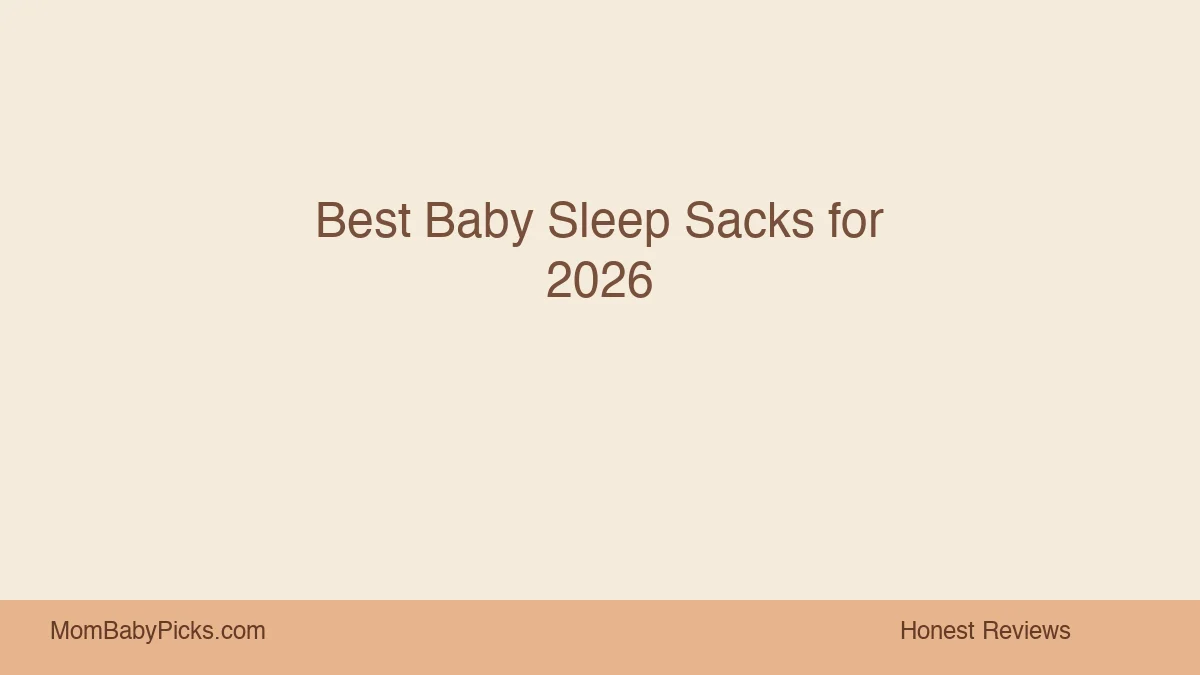
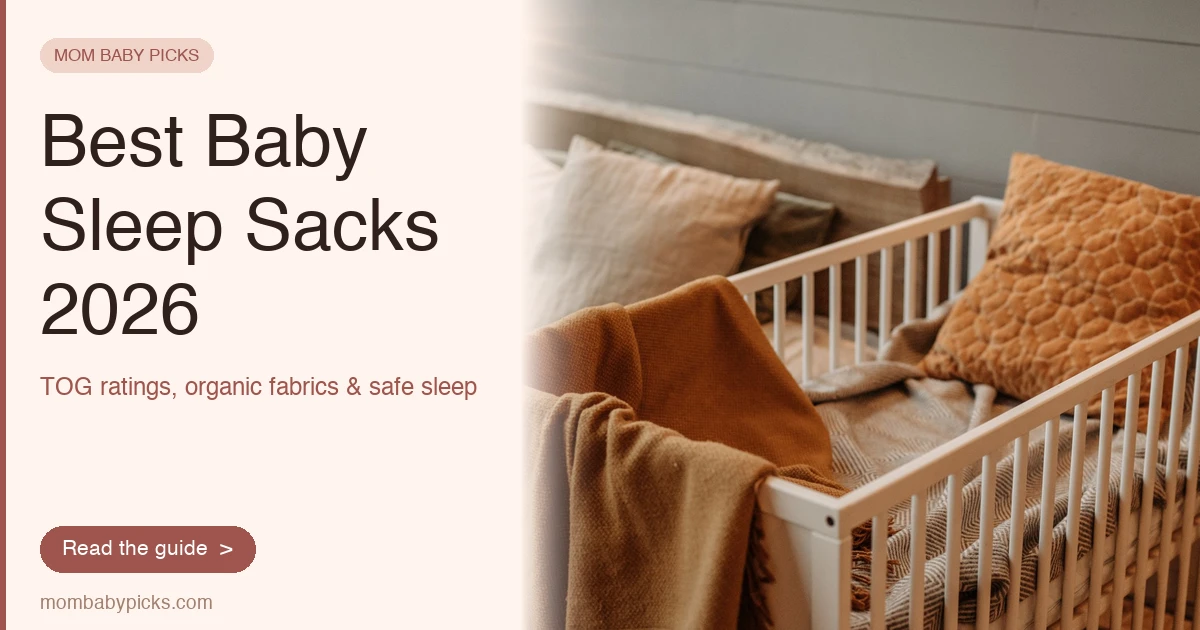
feat: regenerate all 18 cover images — two-tone split layout with Pexels photos

diff --git a/scripts/generate-covers.py b/scripts/generate-covers.py
@@ -1,0 +1,308 @@
+#!/usr/bin/env python3
+"""
+Generate 1200x630 cover images — two-tone split layout.
+Left 43%: warm cream panel with headline + branding.
+Right 57%: Pexels lifestyle photo.
+
+Usage:
+  python3 scripts/generate-covers.py                    # Picsum fallback
+  PEXELS_API_KEY=xxx python3 scripts/generate-covers.py # real photos
+  PEXELS_API_KEY=xxx python3 scripts/generate-covers.py best-baby-bouncers-for-2026
+"""
+
+import os
+import io
+import sys
+import urllib.request
+import urllib.parse
+import json
+from PIL import Image, ImageDraw, ImageFont
+
+COVERS_DIR = "/Users/thangnguyen/GIT/PP/mombabypicks/static/images/posts"
+W, H = 1200, 630
+LEFT_W = 520          # text panel width
+RIGHT_W = W - LEFT_W  # 680
+
+FONT_PATH = "/System/Library/Fonts/Helvetica.ttc"
+PEXELS_KEY = os.environ.get("PEXELS_API_KEY", "")
+
+CREAM       = (255, 244, 238, 255)  # #fff4ee
+DARK        = (47,  32,  28,  255)  # #2f201c
+CORAL       = (158, 85,  77,  255)  # #9e554d
+CORAL_LIGHT = (240, 212, 202, 255)  # #f0d4ca
+MUTED       = (160, 128, 112, 255)  # #a08070
+WHITE       = (255, 255, 255, 255)
+
+
+def load_font(size):
+    try:
+        return ImageFont.truetype(FONT_PATH, size)
+    except Exception:
+        return ImageFont.load_default()
+
+
+def fetch_pexels(query):
+    url = (f"https://api.pexels.com/v1/search"
+           f"?query={urllib.parse.quote(query)}&per_page=5&orientation=landscape")
+    headers = {"Authorization": PEXELS_KEY, "User-Agent": "Mozilla/5.0"}
+    try:
+        with urllib.request.urlopen(
+            urllib.request.Request(url, headers=headers), timeout=10
+        ) as r:
+            data = json.loads(r.read())
+        photos = data.get("photos", [])
+        if photos:
+            img_url = photos[0]["src"].get("large2x") or photos[0]["src"]["large"]
+            with urllib.request.urlopen(
+                urllib.request.Request(img_url, headers=headers), timeout=15
+            ) as r:
+                return Image.open(io.BytesIO(r.read())).convert("RGBA")
+    except Exception as e:
+        print(f"    Pexels error: {e}")
+    return None
+
+
+def fetch_picsum(seed):
+    url = f"https://picsum.photos/seed/{seed}/680/630"
+    try:
+        with urllib.request.urlopen(
+            urllib.request.Request(url, headers={"User-Agent": "Mozilla/5.0"}),
+            timeout=10,
+        ) as r:
+            return Image.open(io.BytesIO(r.read())).convert("RGBA")
+    except Exception as e:
+        print(f"    Picsum error: {e}")
+    return None
+
+
+def get_photo(query, seed):
+    if PEXELS_KEY:
+        photo = fetch_pexels(query)
+        if photo:
+            return photo
+        print(f"    Pexels miss for '{query}', falling back to Picsum")
+    return fetch_picsum(seed)
+
+
+def wrap_text(draw, text, font, max_w):
+    words = text.split()
+    lines, cur = [], []
+    for word in words:
+        test = " ".join(cur + [word])
+        if draw.textbbox((0, 0), test, font=font)[2] <= max_w:
+            cur.append(word)
+        else:
+            if cur:
+                lines.append(" ".join(cur))
+            cur = [word]
+    if cur:
+        lines.append(" ".join(cur))
+    return lines
+
+
+def rounded_rect(draw, xy, r, fill):
+    x0, y0, x1, y1 = xy
+    draw.rectangle([x0 + r, y0, x1 - r, y1], fill=fill)
+    draw.rectangle([x0, y0 + r, x1, y1 - r], fill=fill)
+    for cx, cy in [(x0, y0), (x1 - 2*r, y0), (x0, y1 - 2*r), (x1 - 2*r, y1 - 2*r)]:
+        draw.ellipse([cx, cy, cx + 2*r, cy + 2*r], fill=fill)
+
+
+def make_cover(slug, headline, subtitle, query, seed):
+    out_path = os.path.join(COVERS_DIR, f"{slug}.webp")
+    print(f"  {slug}...")
+
+    img = Image.new("RGBA", (W, H), CREAM)
+    draw = ImageDraw.Draw(img)
+
+    # --- Right panel: photo ---
+    photo = get_photo(query, seed)
+    if photo:
+        pw, ph = photo.size
+        scale = max(RIGHT_W / pw, H / ph)
+        nw, nh = int(pw * scale), int(ph * scale)
+        photo = photo.resize((nw, nh), Image.LANCZOS)
+        lx = (nw - RIGHT_W) // 2
+        ty_crop = (nh - H) // 2
+        photo = photo.crop((lx, ty_crop, lx + RIGHT_W, ty_crop + H))
+        img.paste(photo, (LEFT_W, 0))
+
+    # Soft cream-to-transparent blend at the join edge
+    blend_w = 80
+    overlay = Image.new("RGBA", (blend_w, H), (0, 0, 0, 0))
+    for i in range(blend_w):
+        alpha = int(255 * (1 - i / blend_w) ** 1.6)
+        ImageDraw.Draw(overlay).line([(i, 0), (i, H)], fill=(255, 244, 238, alpha))
+    img.paste(overlay, (LEFT_W, 0), overlay)
+
+    draw = ImageDraw.Draw(img)
+
+    # Coral accent bar on far left
+    draw.rectangle([0, 0, 5, H], fill=CORAL)
+
+    # --- Brand badge ---
+    f_badge = load_font(17)
+    badge_text = "MOM BABY PICKS"
+    bb = draw.textbbox((0, 0), badge_text, font=f_badge)
+    bw = bb[2] - bb[0] + 28
+    bh = 34
+    bx, by = 40, 38
+    rounded_rect(draw, (bx, by, bx + bw, by + bh), 17, CORAL_LIGHT)
+    draw.text((bx + 14, by + 9), badge_text, font=f_badge, fill=CORAL)
+
+    # --- Headline: auto-size to fit in 3 lines ---
+    PAD = 40
+    MAX_TW = LEFT_W - PAD * 2  # 440px
+
+    f_title = load_font(72)
+    lines = wrap_text(draw, headline, f_title, MAX_TW)
+    if len(lines) > 3:
+        f_title = load_font(58)
+        lines = wrap_text(draw, headline, f_title, MAX_TW)
+    line_h = int(f_title.size * 1.18)
+
+    # Vertical center with subtitle and button in mind
+    text_block_h = len(lines) * line_h
+    ty = max(110, (H - text_block_h - 180) // 2)
+
+    for line in lines[:4]:
+        draw.text((PAD, ty), line, font=f_title, fill=DARK)
+        ty += line_h
+
+    # --- Subtitle ---
+    f_sub = load_font(24)
+    ty += 14
+    for line in wrap_text(draw, subtitle, f_sub, MAX_TW)[:2]:
+        draw.text((PAD, ty), line, font=f_sub, fill=CORAL)
+        ty += 34
+
+    # --- CTA button ---
+    f_btn = load_font(21)
+    btn_text = "Read the guide  >"
+    bb = draw.textbbox((0, 0), btn_text, font=f_btn)
+    btn_w = bb[2] - bb[0] + 44
+    btn_h = 46
+    btn_y = H - 104
+    rounded_rect(draw, (PAD, btn_y, PAD + btn_w, btn_y + btn_h), 23, CORAL)
+    draw.text((PAD + 22, btn_y + 12), btn_text, font=f_btn, fill=WHITE)
+
+    # --- URL ---
+    f_url = load_font(19)
+    draw.text((PAD, H - 36), "mombabypicks.com", font=f_url, fill=MUTED)
+
+    final = img.convert("RGB")
+    final.save(out_path, "WEBP", quality=90, optimize=True)
+    print(f"    Saved: {os.path.basename(out_path)}")
+
+
+ARTICLES = [
+    dict(slug="best-bottle-warmers",
+         headline="Best Bottle Warmers",
+         subtitle="Fast, safe picks for newborns · 2026",
+         query="baby bottle warmer kitchen counter",
+         seed="cover-bottle-warmer"),
+    dict(slug="best-baby-bouncers-for-2026",
+         headline="Best Baby Bouncers for 2026",
+         subtitle="5 picks from budget to app-controlled",
+         query="baby bouncer seat infant cozy",
+         seed="cover-bouncer"),
+    dict(slug="best-breast-pumps",
+         headline="Best Breast Pumps of 2026",
+         subtitle="Wearable & electric compared honestly",
+         query="breast pump nursing mom",
+         seed="cover-breast-pump"),
+    dict(slug="best-baby-sleep-sacks-for-2026",
+         headline="Best Baby Sleep Sacks 2026",
+         subtitle="TOG ratings, organic fabrics & safe sleep",
+         query="baby sleeping cozy nursery warm",
+         seed="cover-sleep-sack"),
+    dict(slug="best-baby-bottles-for-newborns-2026",
+         headline="Best Baby Bottles for Newborns",
+         subtitle="Anti-colic venting & breast-like nipples",
+         query="baby bottle feeding newborn",
+         seed="cover-bottles"),
+    dict(slug="best-baby-carriers-for-2026",
+         headline="Best Baby Carriers 2026",
+         subtitle="From wraps to structured carriers",
+         query="babywearing baby carrier parent",
+         seed="cover-carriers"),
+    dict(slug="best-diapers-for-newborns-2026",
+         headline="Best Newborn Diapers 2026",
+         subtitle="Softness, fit & sensitive skin compared",
+         query="newborn baby diaper soft",
+         seed="cover-diapers"),
+    dict(slug="best-high-chairs-for-babies-2026",
+         headline="Best High Chairs 2026",
+         subtitle="From budget IKEA to grows-to-adult",
+         query="baby high chair mealtime kitchen",
+         seed="cover-high-chair"),
+    dict(slug="best-baby-monitors-long-battery-life",
+         headline="Best Baby Monitors Long Battery",
+         subtitle="No-WiFi picks that last through the night",
+         query="baby monitor nursery night",
+         seed="cover-monitor"),
+    dict(slug="best-hands-free-wearable-breast-pumps",
+         headline="Best Wearable Breast Pumps",
+         subtitle="Hands-free pumping while you move",
+         query="wearable breast pump nursing mom",
+         seed="cover-wearable-pump"),
+    dict(slug="breastfeeding-essentials",
+         headline="Breastfeeding Essentials 2026",
+         subtitle="What you actually need from day one",
+         query="breastfeeding mom newborn nursing",
+         seed="cover-bf-essentials"),
+    dict(slug="newborn-essentials-checklist",
+         headline="Newborn Essentials Checklist",
+         subtitle="Skip the noise — here's what you need",
+         query="newborn baby essentials nursery",
+         seed="cover-newborn"),
+    dict(slug="newborn-feeding-essentials",
+         headline="Newborn Feeding Essentials",
+         subtitle="Bottles, burp cloths & nursing gear",
+         query="newborn feeding baby bottles",
+         seed="cover-feeding"),
+    dict(slug="bottle-refusal-breastfed-babies",
+         headline="Bottle Refusal: What Works",
+         subtitle="Why breastfed babies refuse & how to fix it",
+         query="baby bottle feeding breastfed mother",
+         seed="cover-bottle-refusal"),
+    dict(slug="eco-friendly-baby-gear-guide",
+         headline="Eco-Friendly Baby Gear",
+         subtitle="Sustainable picks worth buying in 2026",
+         query="eco organic baby products natural",
+         seed="cover-eco"),
+    dict(slug="pace-bottle-feeding-guide",
+         headline="Pace Bottle Feeding Guide",
+         subtitle="The technique every breastfed baby needs",
+         query="baby bottle paced feeding technique",
+         seed="cover-pace"),
+    dict(slug="silicone-baby-feeding-products",
+         headline="Best Silicone Baby Products",
+         subtitle="Safe, non-toxic gear for feeding time",
+         query="silicone baby feeding bowl spoon",
+         seed="cover-silicone"),
+    dict(slug="momcozy-m5-review",
+         headline="Momcozy M5 Review 2026",
+         subtitle="Is it really worth the hype?",
+         query="wearable breast pump review honest",
+         seed="cover-momcozy"),
+]
+
+
+if __name__ == "__main__":
+    target = sys.argv[1] if len(sys.argv) > 1 else None
+    mode = "Pexels API" if PEXELS_KEY else "Picsum (demo photos)"
+    print(f"Generating covers — mode: {mode}\n")
+
+    for art in ARTICLES:
+        if target and art["slug"] != target:
+            continue
+        make_cover(
+            slug=art["slug"],
+            headline=art["headline"],
+            subtitle=art["subtitle"],
+            query=art["query"],
+            seed=art["seed"],
+        )
+
+    print(f"\nDone! Check {COVERS_DIR}")
